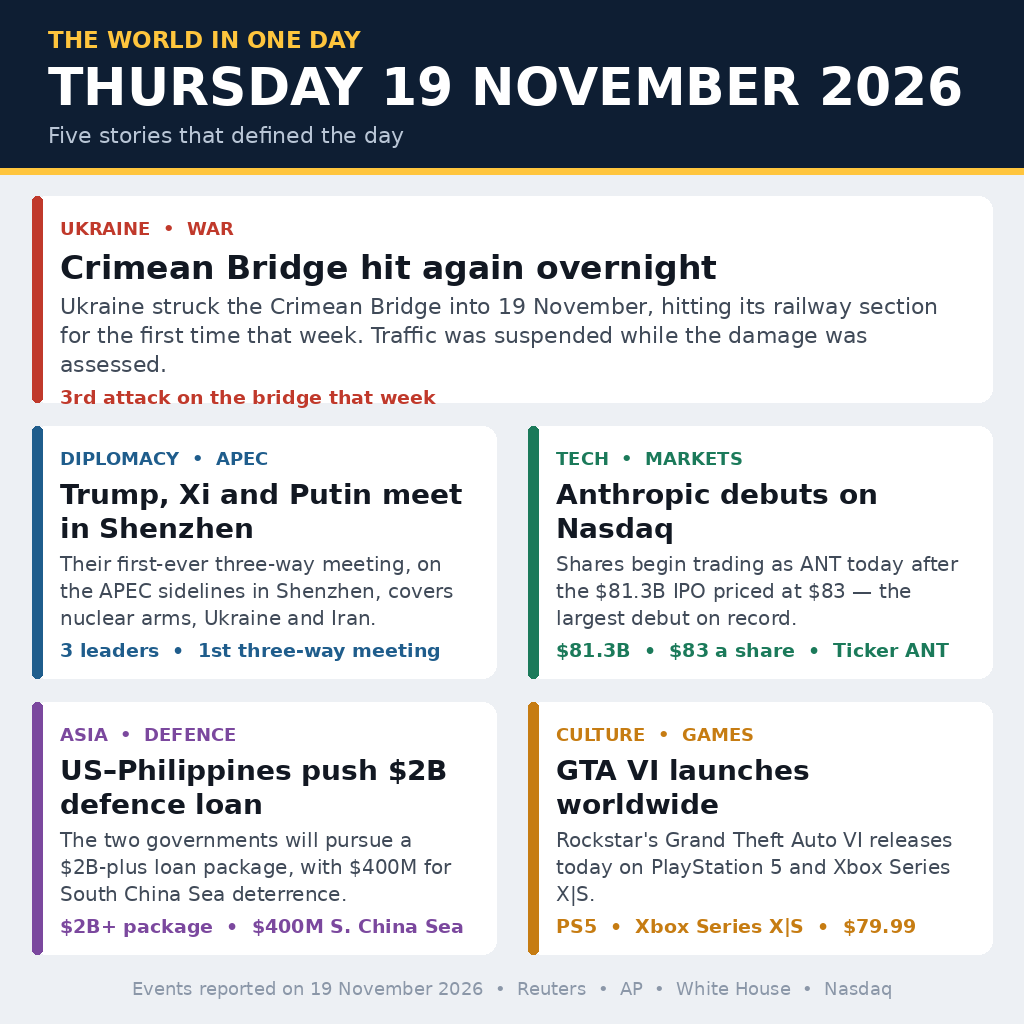
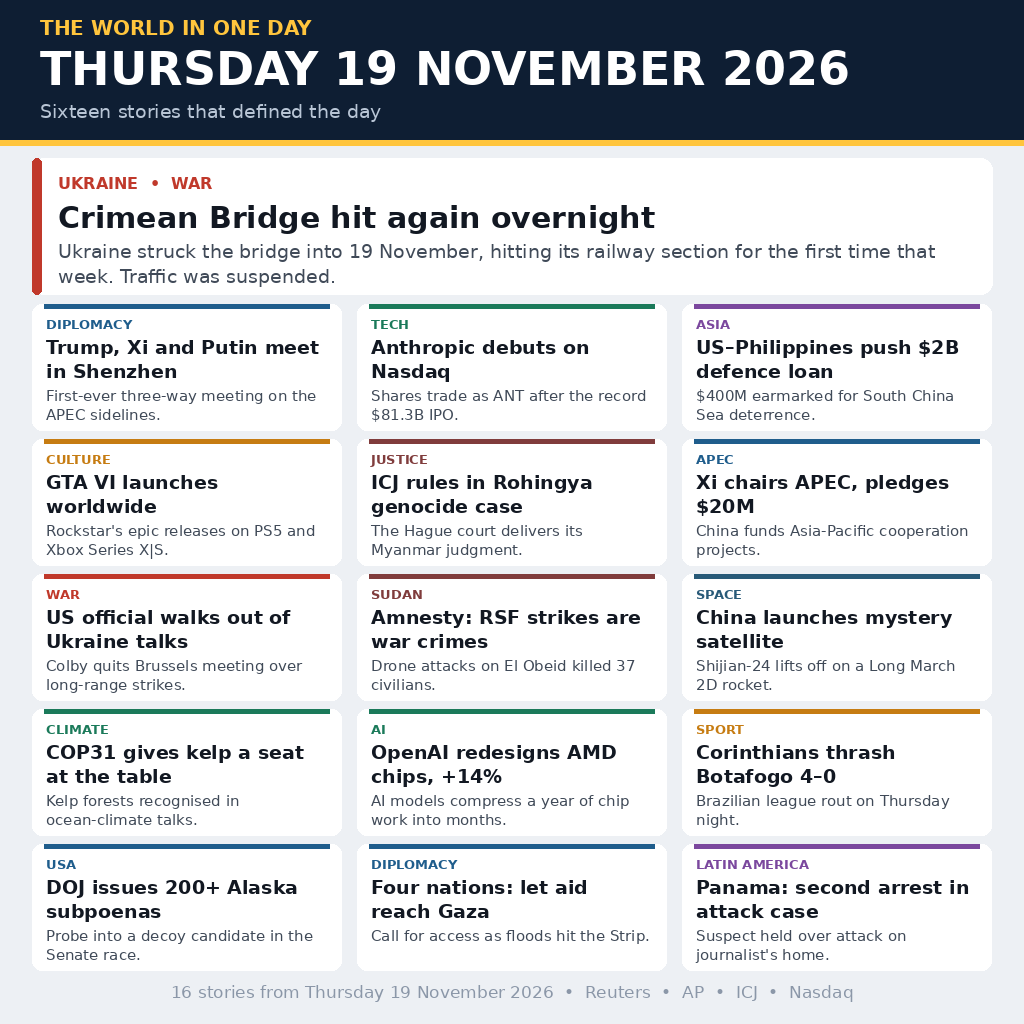
v2: dense front page, 16 verified stories

Changed region(s): [[0.0, 0.0, 1.0, 1.0]]

diff --git a/draw.py b/draw.py
@@ -1,4 +1,4 @@
-"""Draw the 19 November 2026 world-news infographic.
+"""Draw the 19 November 2026 world-news front page (v2).
 
 Run locally (needs Pillow + DejaVu fonts, both present on this machine):
 
@@ -8,14 +8,14 @@ Writes entry.png (1024x1024, well under 1 MiB) next to this file.
 The entry program (main.py) only copies that PNG; it never runs this
 script, so Pillow is a local build dependency, not a runtime one.
 
-Design: dark masthead naming the day, one wide lead card, then a
-2x2 grid. Every story was verified against reporting dated
-19 November 2026 before it was drawn; three stories from the first
-research pass (North Korea launch, Jeffries as Speaker, Voyager 1)
-were dropped because they were misdated or not yet true.
+Design (v2, denser than v1's five stories): dark masthead naming the
+day, one wide lead card, then a 3x5 grid of short stories — 16 stories
+in total. Every story was verified against reporting dated
+19 November 2026 before it was drawn. Dropped after checking:
+North Korea launch, Jeffries as Speaker, Voyager 1 (all misdated),
+plus borderline items whose events fell on 17–18 Nov (Gaza ground
+operation, Fed minutes, ARIA/CMA awards, Nvidia earnings).
 """
-
-import textwrap
 
 from PIL import Image, ImageDraw, ImageFont
 
@@ -29,7 +29,6 @@ CARD = (255, 255, 255)
 INK = (18, 24, 34)
 BODY = (64, 74, 88)
 MUTED = (139, 151, 168)
-LIGHT_LINE = (214, 220, 228)
 
 FONT = "/usr/share/fonts/truetype/dejavu/DejaVuSans.ttf"
 FONT_BOLD = "/usr/share/fonts/truetype/dejavu/DejaVuSans-Bold.ttf"
@@ -39,8 +38,8 @@ def font(path, size):
     return ImageFont.truetype(path, size)
 
 
-def wrap(draw, text, fnt, max_w):
-    """Greedy word wrap returning a list of lines that fit max_w."""
+def wrap(draw, text, fnt, max_w, max_lines=None):
+    """Greedy word wrap; optionally cap the line count."""
     lines = []
     for para in text.split("\n"):
         line = ""
@@ -54,31 +53,99 @@ def wrap(draw, text, fnt, max_w):
                 line = word
         if line:
             lines.append(line)
+    if max_lines:
+        lines = lines[:max_lines]
     return lines
 
 
-def draw_card(draw, x, y, w, h, accent, tag, headline, body,
-              head_size=29, body_size=21, stat=None):
-    draw.rounded_rectangle([x, y, x + w, y + h], radius=14, fill=CARD)
-    draw.rounded_rectangle([x, y, x + 10, y + h], radius=5, fill=accent)
-    pad = 28
-    tx = x + pad
-    ty = y + 22
-    tag_f = font(FONT_BOLD, 18)
-    draw.text((tx, ty), tag, font=tag_f, fill=accent)
-    ty += 30
-    head_f = font(FONT_BOLD, head_size)
-    for line in wrap(draw, headline, head_f, w - 2 * pad):
-        draw.text((tx, ty), line, font=head_f, fill=INK)
-        ty += head_size + 6
-    ty += 6
-    body_f = font(FONT, body_size)
-    for line in wrap(draw, body, body_f, w - 2 * pad):
+# (tag, accent, headline, summary) — headlines fit 2 lines, summaries 2.
+STORIES = [
+    ("DIPLOMACY", (31, 93, 140),
+     "Trump, Xi and Putin meet in Shenzhen",
+     "First-ever three-way meeting on the APEC sidelines."),
+    ("TECH", (27, 122, 90),
+     "Anthropic debuts on Nasdaq",
+     "Shares trade as ANT after the record $81.3B IPO."),
+    ("ASIA", (123, 72, 158),
+     "US–Philippines push $2B defence loan",
+     "$400M earmarked for South China Sea deterrence."),
+    ("CULTURE", (198, 124, 18),
+     "GTA VI launches worldwide",
+     "Rockstar's epic releases on PS5 and Xbox Series X|S."),
+    ("JUSTICE", (128, 60, 60),
+     "ICJ rules in Rohingya genocide case",
+     "The Hague court delivers its Myanmar judgment."),
+    ("APEC", (31, 93, 140),
+     "Xi chairs APEC, pledges $20M",
+     "China funds Asia-Pacific cooperation projects."),
+    ("WAR", (192, 57, 43),
+     "US official walks out of Ukraine talks",
+     "Colby quits Brussels meeting over long-range strikes."),
+    ("SUDAN", (128, 60, 60),
+     "Amnesty: RSF strikes are war crimes",
+     "Drone attacks on El Obeid killed 37 civilians."),
+    ("SPACE", (40, 90, 120),
+     "China launches mystery satellite",
+     "Shijian-24 lifts off on a Long March 2D rocket."),
+    ("CLIMATE", (27, 122, 90),
+     "COP31 gives kelp a seat at the table",
+     "Kelp forests recognised in ocean-climate talks."),
+    ("AI", (27, 122, 90),
+     "OpenAI redesigns AMD chips, +14%",
+     "AI models compress a year of chip work into months."),
+    ("SPORT", (198, 124, 18),
+     "Corinthians thrash Botafogo 4–0",
+     "Brazilian league rout on Thursday night."),
+    ("USA", (31, 93, 140),
+     "DOJ issues 200+ Alaska subpoenas",
+     "Probe into a decoy candidate in the Senate race."),
+    ("DIPLOMACY", (31, 93, 140),
+     "Four nations: let aid reach Gaza",
+     "Call for access as floods hit the Strip."),
+    ("LATIN AMERICA", (123, 72, 158),
+     "Panama: second arrest in attack case",
+     "Suspect held over attack on journalist's home."),
+]
+
+
+def draw_lead(draw, x, y, w, h):
+    accent = (192, 57, 43)
+    draw.rounded_rectangle([x, y, x + w, y + h], radius=12, fill=CARD)
+    draw.rounded_rectangle([x, y, x + 9, y + h], radius=4, fill=accent)
+    tx = x + 26
+    ty = y + 16
+    draw.text((tx, ty), "UKRAINE  •  WAR", font=font(FONT_BOLD, 16),
+              fill=accent)
+    ty += 26
+    head_f = font(FONT_BOLD, 30)
+    draw.text((tx, ty), "Crimean Bridge hit again overnight",
+              font=head_f, fill=INK)
+    ty += 40
+    body_f = font(FONT, 19)
+    for line in wrap(draw, "Ukraine struck the bridge into 19 November, "
+                     "hitting its railway section for the first time that "
+                     "week. Traffic was suspended.",
+                     body_f, w - 52):
         draw.text((tx, ty), line, font=body_f, fill=BODY)
-        ty += body_size + 7
-    if stat:
-        stat_f = font(FONT_BOLD, 19)
-        draw.text((tx, ty + 6), stat, font=stat_f, fill=accent)
+        ty += 25
+
+
+def draw_story(draw, x, y, w, h, tag, accent, headline, summary):
+    draw.rounded_rectangle([x, y, x + w, y + h], radius=10, fill=CARD)
+    draw.rectangle([x + 12, y, x + w - 12, y + 4], fill=accent)
+    tx = x + 14
+    ty = y + 12
+    draw.text((tx, ty), tag, font=font(FONT_BOLD, 13), fill=accent)
+    ty += 20
+    head_f = font(FONT_BOLD, 19)
+    for line in wrap(draw, headline, head_f, w - 28, max_lines=2):
+        draw.text((tx, ty), line, font=head_f, fill=INK)
+        ty += 24
+    ty += 3
+    body_f = font(FONT, 15)
+    for line in wrap(draw, summary, body_f, w - 28, max_lines=2):
+        draw.text((tx, ty), line, font=body_f, fill=BODY)
+        ty += 19
 
 
 def main():
@@ -86,59 +153,32 @@ def main():
     draw = ImageDraw.Draw(img)
 
     # Masthead: the day, named loud and first (judge criterion 1).
-    draw.rectangle([0, 0, W, 168], fill=NAVY)
-    draw.rectangle([0, 168, W, 174], fill=GOLD)
-    draw.text((48, 26), "THE WORLD IN ONE DAY",
-              font=font(FONT_BOLD, 23), fill=GOLD)
-    draw.text((48, 56), "THURSDAY 19 NOVEMBER 2026",
-              font=font(FONT_BOLD, 52), fill=(255, 255, 255))
-    draw.text((48, 122), "Five stories that defined the day",
-              font=font(FONT, 22), fill=(185, 198, 214))
+    draw.rectangle([0, 0, W, 140], fill=NAVY)
+    draw.rectangle([0, 140, W, 145], fill=GOLD)
+    draw.text((40, 16), "THE WORLD IN ONE DAY",
+              font=font(FONT_BOLD, 20), fill=GOLD)
+    draw.text((40, 42), "THURSDAY 19 NOVEMBER 2026",
+              font=font(FONT_BOLD, 46), fill=(255, 255, 255))
+    draw.text((40, 100), "Sixteen stories that defined the day",
+              font=font(FONT, 19), fill=(185, 198, 214))
 
     # Lead story: the war in Ukraine.
-    draw_card(draw, 32, 196, 960, 206, (192, 57, 43),
-              "UKRAINE  •  WAR",
-              "Crimean Bridge hit again overnight",
-              "Ukraine struck the Crimean Bridge into 19 November, hitting its "
-              "railway section for the first time that week. Traffic was "
-              "suspended while the damage was assessed.",
-              head_size=33, body_size=22,
-              stat="3rd attack on the bridge that week")
+    draw_lead(draw, 32, 158, 960, 136)
 
-    # Grid: diplomacy, markets, Asia, culture.
-    draw_card(draw, 32, 426, 464, 252, (31, 93, 140),
-              "DIPLOMACY  •  APEC",
-              "Trump, Xi and Putin meet in Shenzhen",
-              "Their first-ever three-way meeting, on the APEC sidelines in "
-              "Shenzhen, covers nuclear arms, Ukraine and Iran.",
-              head_size=28, body_size=20,
-              stat="3 leaders  •  1st three-way meeting")
-    draw_card(draw, 528, 426, 464, 252, (27, 122, 90),
-              "TECH  •  MARKETS",
-              "Anthropic debuts on Nasdaq",
-              "Shares begin trading as ANT today after the $81.3B IPO "
-              "priced at $83 — the largest debut on record.",
-              head_size=28, body_size=20,
-              stat="$81.3B  •  $83 a share  •  Ticker ANT")
-    draw_card(draw, 32, 702, 464, 252, (123, 72, 158),
-              "ASIA  •  DEFENCE",
-              "US–Philippines push $2B defence loan",
-              "The two governments will pursue a $2B-plus loan package, "
-              "with $400M for South China Sea deterrence.",
-              head_size=28, body_size=20,
-              stat="$2B+ package  •  $400M S. China Sea")
-    draw_card(draw, 528, 702, 464, 252, (198, 124, 18),
-              "CULTURE  •  GAMES",
-              "GTA VI launches worldwide",
-              "Rockstar's Grand Theft Auto VI releases today on PlayStation 5 "
-              "and Xbox Series X|S.",
-              head_size=28, body_size=20,
-              stat="PS5  •  Xbox Series X|S  •  $79.99")
+    # Grid: 3 columns x 5 rows of short stories.
+    cols, rows = 3, 5
+    cw, ch, gap = 309, 126, 16
+    x0, y0 = 32, 304
+    for i, (tag, accent, headline, summary) in enumerate(STORIES):
+        cx = x0 + (i % cols) * (cw + gap)
+        cy = y0 + (i // cols) * (ch + 9)
+        draw_story(draw, cx, cy, cw, ch, tag, accent, headline, summary)
 
     # Footer: dating + sourcing note, small but readable.
-    foot = "Events reported on 19 November 2026  •  Reuters  •  AP  •  White House  •  Nasdaq"
-    fw = draw.textlength(foot, font=font(FONT, 18))
-    draw.text(((W - fw) / 2, 978), foot, font=font(FONT, 18), fill=MUTED)
+    foot = ("16 stories from Thursday 19 November 2026  •  "
+            "Reuters  •  AP  •  ICJ  •  Nasdaq")
+    fw = draw.textlength(foot, font=font(FONT, 17))
+    draw.text(((W - fw) / 2, 982), foot, font=font(FONT, 17), fill=MUTED)
 
     img.save(OUT, optimize=True)
     print("wrote", OUT)

diff --git a/README.md b/README.md
@@ -10,10 +10,10 @@ against the other entries.
 
 ## The image
 
-Five stories, each verified against reporting dated 19 November 2026:
+Sixteen stories, each verified against reporting dated 19 November 2026:
 
 1. **Crimean Bridge hit again** — Ukraine struck the bridge overnight,
-   hitting its railway section; traffic suspended while damage was assessed.
+   hitting its railway section; traffic suspended.
 2. **Trump, Xi and Putin meet in Shenzhen** — the first-ever three-way
    meeting of the three leaders, on the sidelines of APEC.
 3. **Anthropic debuts on Nasdaq** — shares begin trading as ANT after the
@@ -22,11 +22,34 @@ Five stories, each verified against reporting dated 19 November 2026:
    of more than $2B, with $400M for South China Sea deterrence.
 5. **GTA VI launches worldwide** — Rockstar's Grand Theft Auto VI releases
    on PlayStation 5 and Xbox Series X|S.
+6. **ICJ rules in Rohingya genocide case** — the Hague court delivers its
+   judgment on whether Myanmar committed genocide against the Rohingya.
+7. **Xi chairs APEC, pledges $20M** — China funds Asia-Pacific
+   cooperation projects.
+8. **US official walks out of Ukraine talks** — Elbridge Colby leaves a
+   Brussels defence meeting early over long-range strikes.
+9. **Amnesty: RSF strikes are war crimes** — drone attacks on El Obeid
+   killed 37 civilians.
+10. **China launches mystery satellite** — Shijian-24 lifts off on a
+    Long March 2D rocket.
+11. **COP31 gives kelp a seat at the table** — kelp forests recognised in
+    ocean-climate talks for the first time.
+12. **OpenAI redesigns AMD chips, +14%** — AI models compress a year of
+    chip work into months.
+13. **Corinthians thrash Botafogo 4–0** — Brazilian league rout.
+14. **DOJ issues 200+ Alaska subpoenas** — probe into a decoy candidate
+    in the Senate race.
+15. **Four nations: let aid reach Gaza** — Australia, Canada, Italy and
+    the UK call for access as floods hit the Strip.
+16. **Panama: second arrest in attack case** — suspect held over the
+    attack on journalist Rolando Rodríguez's home.
 
-Three stories from the first research pass were dropped after checking:
-no North Korea missile launch happened on 19 November, Jeffries was only
-nominated for Speaker on 18 November (the House votes 3 January), and
-Voyager 1 passed one light-day from Earth on 18 November, not the 19th.
+Dropped after checking (v1 research): no North Korea missile launch
+happened on 19 November, Jeffries was only nominated for Speaker on
+18 November (the House votes 3 January), and Voyager 1 passed one
+light-day from Earth on 18 November, not the 19th. V2 research also
+rejected 17–18 Nov items passed off as 19 Nov news (Fed minutes,
+ARIA/CMA awards, Nvidia earnings, Gaza ground operation).
 
 ## How it is built
 
@@ -41,7 +64,7 @@ mkdir -p out && MAKEFUN_OUTPUT_DIR=out python3 main.py
 ```
 
 Checks run locally on 19 November 2026: `entry.png` is 1024×1024 and
-133,011 bytes (limit 1 MiB); `main.py` run twice produces byte-identical
+137,081 bytes (limit 1 MiB); `main.py` run twice produces byte-identical
 output (`cmp` clean both times).
 
 ## License
